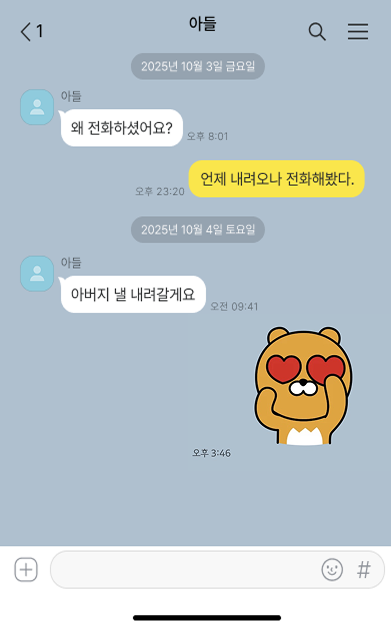
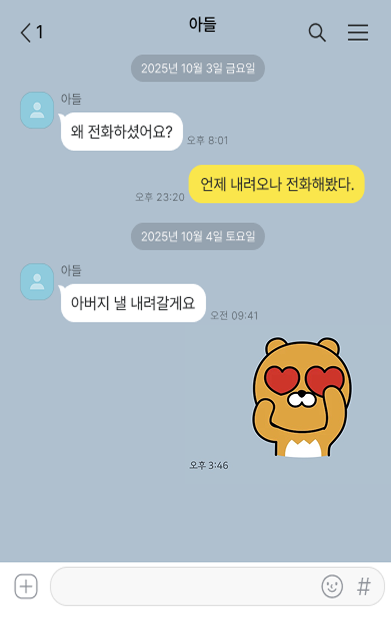
중연 12: 사진 묶어 보내기 구현 완료 + 카카오톡 다른 항목 수정 완료

diff --git a/src/pages/Kakao/KakaoUiLesson.jsx b/src/pages/Kakao/KakaoUiLesson.jsx
@@ -9,7 +9,7 @@ import ChatInputBar from '../../components/ChatInputBar/ChatInputBar';
 import VirtualKeyboard from '../../components/VirtualKeyboard/VirtualKeyboard';
 import screenshot1 from '../../assets/msend3.png';
 import screenshot4 from '../../assets/msend4.png';
-import kemot1 from '../../assets/kemot1.png';
+import kemot1 from '../../assets/kreser1.png';
 import kemot2 from '../../assets/kemot2.png';
 import kemot3 from '../../assets/kemot3.png';
 import kemot4 from '../../assets/kemot4.png';
@@ -112,7 +112,7 @@ export default function KakaoUiLesson(){
       <header className={frameStyles.frameHeader} ref={headerRef}>
         <h1 className={`${frameStyles.frameTitle} ${lt.withAccent}`}>
           <span className="titleText">이모티콘 보내기</span>
-          <span className={frameStyles.inlineTagline}>{current.instruction || '카카오톡의 기본 UI를 확인해 보세요.'}</span>
+          <span className={frameStyles.inlineTagline}>각종 이모티콘을 보내는 방법을 연습합니다.</span>
         </h1>
       </header>
       <div className={frameStyles.lessonRow}>
@@ -121,7 +121,7 @@ export default function KakaoUiLesson(){
             <PhoneFrame image={useSubmittedScreenshot ? screenshot4 : (step === 1 ? kemot1 : (step === 2 ? kemot2 : (step === 3 ? (showKemot4 ? kemot4 : kemot3) : screenshot1)))} screenWidth={'278px'} aspect={'278 / 450'} scale={1}>
               {showDev && <div className={frameStyles.devCoord}>{devPos.x}% , {devPos.y}% (d toggle)</div>}
               {!showKemot4 && (
-                <TapHint selector={'button[aria-label="메시지 보내기"]'} width={step === 1 ? '26px' : step === 2 ? '50px' : step === 3 ? '26px' : '18%'} height={step === 1 ? '27px' : step === 2 ? '50px' : step === 3 ? '26px' : '8%'} offsetX={step === 1 ? -120 : step === 2 ? 36 : step === 3 ? 123 : 0} offsetY={step === 1 ? -46 : step === 2 ? -15 : step === 3 ? 93 : 10} borderRadius={'10px'} onActivate={() => { if(step === 3){ setShowKemot4(true); return; } if(step === total) { submitAnswer(); } else { next(); } }} suppressInitial={false} ariaLabel={'전송 버튼 힌트'} />
+                <TapHint selector={'button[aria-label="메시지 보내기"]'} width={step === 1 ? '26px' : step === 2 ? '50px' : step === 3 ? '26px' : '18%'} height={step === 1 ? '27px' : step === 2 ? '50px' : step === 3 ? '26px' : '8%'} offsetX={step === 1 ? -120 : step === 2 ? 36 : step === 3 ? 123 : 0} offsetY={step === 1 ? -58 : step === 2 ? -15 : step === 3 ? 93 : 10} borderRadius={'10px'} onActivate={() => { if(step === 3){ setShowKemot4(true); return; } if(step === total) { submitAnswer(); } else { next(); } }} suppressInitial={false} ariaLabel={'전송 버튼 힌트'} />
               )}
               {current && current.inputPlaceholder && (
                 <ChatInputBar value={answer + composePreview()} disabled={!canSubmit} onChange={(val)=>{setAnswer(val); setFeedback('');}} onSubmit={onSubmitAnswer} offsetBottom={50} offsetX={0} className={frameStyles.inputRightCenter} placeholder={current.inputPlaceholder || '메시지를 입력하세요'} readOnly={keyboardVisible} onFocus={()=>setKeyboardVisible(true)} onBlur={()=>{}} />

diff --git a/src/pages/Kakao/KakaoMediaLessonSteps.js b/src/pages/Kakao/KakaoMediaLessonSteps.js
@@ -1,6 +1,46 @@
 const steps = [
-  { id: 1, title: '사진 전송', instruction: '사진을 선택하고 전송하는 방법을 확인하세요.', focusAreas:[{x:8,y:24,w:84,h:8}], speak: '사진을 보내는 방법을 살펴봅시다.' },
-  { id: 2, title: '파일 관리', instruction: '보낸 파일을 재전송/삭제하는 방법을 확인하세요.', focusAreas:[{x:10,y:36,w:80,h:8}], speak: '파일 재전송과 삭제 방법을 연습하세요.' },
-  { id: 3, title: '미디어 옵션', instruction: '전송 옵션과 미리보기 기능을 확인해보세요.', focusAreas:[{x:6,y:46,w:88,h:10,pill:true}], speak: '미리보기를 확인하고 전송해보세요.', completionSpeak: '잘하셨어요 아래 완료 버튼을 눌러 더 많은걸 배우러 가볼까요?' }
+  {
+    id: 1,
+    title: "수신된 메시지 확인하고, 더하기 버튼 누르기",
+    instruction: "수신된 문자함을 열어 왼쪽 하단의 더하기 버튼을 누릅니다.",
+    focusAreas: [{ x: 8, y: 24, w: 84, h: 8 }],
+    speak: "앨범을 확인하기 위해 왼쪽 하단의 더하기 버튼을 눌러보세요.",
+  },
+  {
+    id: 2,
+    title: "앨범 누르기",
+    instruction: "앨범을 눌러보세요.",
+    focusAreas: [{ x: 10, y: 36, w: 80, h: 8 }],
+    speak: "앨범을 찾고 눌러보세요.",
+  },
+  {
+    id: 3,
+    title: "사진 선택하기",
+    instruction: "전송할 사진을 선택해보세요.",
+    focusAreas: [{ x: 6, y: 46, w: 88, h: 10, pill: true }],
+    speak: "전송할 사진을 선택하기 위해 파란색 버튼을 눌러보세요.",
+  },
+  {
+    id: 4,
+    title: "사진 중복 선택하기",
+    instruction: "여러 장의 사진을 선택해 묶어 보내는 방법을 확인하세요.",
+    focusAreas: [{ x: 6, y: 30, w: 88, h: 40 }],
+    speak: "여러 장을 선택해 묶어 보내기 위해 파란색 버튼을 눌러보세요.",
+  },
+  {
+    id: 5,
+    title: "묶어 전송 옵션",
+    instruction: "전송 버튼을 눌러보세요.",
+    focusAreas: [{ x: 6, y: 30, w: 88, h: 40 }],
+    speak: "묶어 전송하기 위해 전송 버튼을 눌러보세요.",
+  },
+  {
+    id: 6,
+    title: "묶어 보내기 완료",
+    instruction: "사진 묶어 보내기에 성공하셨어요.",
+    focusAreas: [{ x: 6, y: 30, w: 88, h: 40 }],
+    speak:
+      "사진 묶어 보내기에 성공하셨어요. 아래 완료 버튼을 눌러 더 많은걸 배우러 가볼까요?",
+  },
 ];
 export default steps;

diff --git a/src/pages/common/GenericLesson.jsx b/src/pages/common/GenericLesson.jsx
@@ -172,7 +172,9 @@ export default function GenericLesson({ steps = [], backPath = '/', headerTitle 
               {
                 (() => {
                   // allow per-lesson overrides via tapHintConfig[step]
-                  const override = (tapHintConfig && tapHintConfig[step]) || {};
+                  // support either a single config object or an array of configs to render multiple hints
+                  const raw = (tapHintConfig && tapHintConfig[step]);
+                  const overrides = Array.isArray(raw) ? raw : [raw || {}];
                   const defaultProps = {
                     selector: 'button[aria-label="메시지 보내기"]',
                     width: step === 1 ? '279px' : step === 2 ? '180px' : step === 3 ? '60px' : '18%',
@@ -183,16 +185,16 @@ export default function GenericLesson({ steps = [], backPath = '/', headerTitle 
                     suppressInitial: step === total,
                     ariaLabel: '전송 버튼 힌트'
                   };
-                  const hintProps = { ...defaultProps, ...override };
-                  // if the hintProps request the hint to be hidden, don't render it
-                  if(hintProps.hidden) return null;
-                  // if override supplies explicit x/y, let it override selector behaviour
-                  // allow per-step override for the activation handler (e.g., open a calendar)
-                  return (
-                    <TapHint {...hintProps} onActivate={(override && override.onActivate) ? override.onActivate : handleTapHintActivate}>
-                      {(override && override.inner) ? override.inner : null}
-                    </TapHint>
-                  );
+                  return overrides.map((override, idx) => {
+                    const hintProps = { ...defaultProps, ...override };
+                    if(hintProps.hidden) return null;
+                    const onAct = (override && override.onActivate) ? override.onActivate : handleTapHintActivate;
+                    return (
+                      <TapHint key={idx} {...hintProps} onActivate={onAct}>
+                        {(override && override.inner) ? override.inner : null}
+                      </TapHint>
+                    );
+                  });
                 })()
               }
               {/* Live text overlay (per-step) - rendered inside PhoneFrame.overlay so coordinates are percent-based relative to the screenshot */}

diff --git a/src/pages/Kakao/KakaoMediaLesson.jsx b/src/pages/Kakao/KakaoMediaLesson.jsx
@@ -3,13 +3,20 @@ import GenericLesson from '../common/GenericLesson';
 import steps from './KakaoMediaLessonSteps.js';
 import kreser1 from '../../assets/kreser1.png';
 import kreser2 from '../../assets/kreser2.png';
+import kpic3 from '../../assets/kpic3.png';
+import kpic4 from '../../assets/kpic4.png';
+import kpic1 from '../../assets/kpic1.png';
+import kpic2 from '../../assets/kpic2.png';
 
 export default function KakaoMediaLesson() {
-  const images = { screens: { 1: kreser1, 2: kreser2 } };
+  
+  const images = { screens: { 1: kreser1, 2: kreser2, 3: kpic1, 4: kpic3, 5: kpic2, 6: kpic4 } };
   const tapHintConfig = {
-    1: { selector: null, x: '6.65%', y: '137.3%', width: '25px', height: '25px', borderRadius: '10px', ariaLabel: '사진 전송 힌트', suppressInitial: false },
+    1: { selector: null, x: '6.65%', y: '140%', width: '25px', height: '25px', borderRadius: '10px', ariaLabel: '사진 전송 힌트', suppressInitial: false },
     2: { selector: null, x: '0%', y: '54%', width: '35px', height: '35px', borderRadius: '8px', ariaLabel: '파일 관리 힌트', suppressInitial: false },
-    3: { selector: null, x: '50%', y: '60%', width: '100px', height: '40px', borderRadius: '10px', ariaLabel: '미디어 옵션 힌트', suppressInitial: false }
+    3: { selector: null, x: '62%', y: '60%', width: '20px', height: '20px', borderRadius: '10px', ariaLabel: '미디어 옵션 힌트', suppressInitial: false },
+    4: { selector: null, x: '95.5%', y: '60%', width: '20px', height: '20px', borderRadius: '10px', ariaLabel: '묶어 선택 힌트', suppressInitial: false },
+    5: { selector: null, x: '90%', y: '51.5%', width: '40px', height: '25px', borderRadius: '8px', ariaLabel: '묶어 전송 옵션 힌트', suppressInitial: false }
   };
   return <GenericLesson steps={steps} images={images} tapHintConfig={tapHintConfig} backPath="/kakao/learn" headerTitle="사진/파일 보내기" headerTagline="사진과 파일 전송, 삭제 흐름을 익혀요." donePath="/kakao/learn" showSubmittedBubble={false} />;
 }

diff --git a/src/pages/Kakao/KakaoSettingLesson.jsx b/src/pages/Kakao/KakaoSettingLesson.jsx
@@ -149,7 +149,7 @@ export default function KakaoSettingLesson() {
       steps={steps}
       backPath="/kakao/learn"
       headerTitle="예약 메시지 보내기"
-      headerTagline="원하는 시간과 날짜를 지정하여 메시지를 작성하고, 자동으로 발송되는 기능까지 완벽하게 예약하고 취소하는 과정을 연습합니다."
+      headerTagline="원하는 시간과 날짜를 지정하여 메시지를 작성하고, 자동으로 발송되는 기능까지 완벽하게 예약하는 과정을 연습합니다."
       donePath="/kakao/learn"
       images={{ screenshot1: kreser3, screenshot2: kreser1, screenshot3: kreser2, screens: { 1: kreser1, 2: kreser2, 3: kreser3, 4: kreser3, 5: kreser5 } }}
       showSubmittedBubble={false}
@@ -169,7 +169,7 @@ export default function KakaoSettingLesson() {
       }}
 
       tapHintConfig={{
-        1: { selector: null, x: '7%', y: '86%', width: '26px', height: '24px', borderRadius: '10px', suppressInitial: true, ariaLabel: '더하기 버튼 힌트', offsetY: -20 },
+        1: { selector: null, x: '7%', y: '88%', width: '26px', height: '24px', borderRadius: '10px', suppressInitial: true, ariaLabel: '더하기 버튼 힌트', offsetY: -20 },
         2: { selector: null, x: '49%', y: '80%', width: '35px', height: '35px', borderRadius: '10px', suppressInitial: true, ariaLabel: '예약 메시지 버튼 힌트', offsetY: -20.5 },
         3: { selector: null, x: '30%', y: '19%', width: '155px', height: '35px', borderRadius: '10px', suppressInitial: true, ariaLabel: '예약 메시지 버튼 힌트', offsetY: -20.5 },
         // send hint is now on step 4 (was step 3)

diff --git a/src/pages/Kakao/KakaoFriendLessonSteps.js b/src/pages/Kakao/KakaoFriendLessonSteps.js
@@ -27,31 +27,22 @@ const steps = [
     focusAreas: [{ x: 6, y: 46, w: 88, h: 10, pill: true }],
     inputPlaceholder: "메시지를 입력하세요",
     allowEnglish: true,
-    speak: "친구에게 인사말을 보내보세요.",
+    speak: "친구의 카카오톡 ID를 입력해보세요.",
   },
   {
     id: 5,
-    title: "친구 추가 완료",
+    title: "친구 추가하기",
     instruction: "친구 추가 탭을 눌러보세요.",
     focusAreas: [{ x: 6, y: 46, w: 88, h: 10, pill: true }],
     speak: "친구 추가 탭을 눌러 친구 추가를 완료해보세요.",
   },
   {
     id: 6,
-    title: "추가 정보 확인",
-    instruction: "추가로 표시되는 정보를 확인해보세요.",
-    focusAreas: [{ x: 6, y: 46, w: 88, h: 10, pill: true }],
-    inputPlaceholder: "메시지를 입력하세요",
-    speak: "화면에 표시된 추가 정보를 확인해보세요.",
-  },
-  {
-    id: 7,
     title: "완료 및 확인",
-    instruction: "작업이 완료되었는지 최종 확인해보세요.",
+    instruction: "친구 추가가 성공적으로 완료되었어요.",
     focusAreas: [{ x: 6, y: 46, w: 88, h: 10, pill: true }],
-    speak: "모든 작업을 확인하셨다면 완료해보세요.",
-    completionSpeak:
-      "잘하셨어요 아래 완료 버튼을 눌러 더 많은걸 배우러 가볼까요?",
+    speak:
+      "친구 추가가 성공적으로 완료되었어요. 아래 완료 버튼을 눌러 더 많은걸 배우러 가볼까요?",
   },
 ];
 export default steps;

diff --git a/src/pages/Kakao/KakaoFriendLesson.jsx b/src/pages/Kakao/KakaoFriendLesson.jsx
@@ -6,9 +6,10 @@ import kaddid1 from '../../assets/kaddid1.png';
 import kaddid2 from '../../assets/kaddid2.png';
 import kaddid3 from '../../assets/kaddid3.png';
 import kaddid4 from '../../assets/kaddid4.png';
+import kaddid5 from '../../assets/kaddid5.png';
 
 export default function KakaoFriendLesson(){
-  const images = { screens: { 1: kaddid, 2: kaddid1, 3: kaddid2, 4: kaddid3, 5: kaddid4 } };
+  const images = { screens: { 1: kaddid, 2: kaddid1, 3: kaddid2, 4: kaddid3, 5: kaddid4, 6: kaddid5 } };
     // make the TapHint on step 1 a bit smaller and keep the vertical nudge
     // also ensure the TapHint is visible on step 3 (explicit override)
     const tapHintConfig = {
@@ -38,5 +39,5 @@ export default function KakaoFriendLesson(){
       }
     };
 
-    return <GenericLesson steps={steps} images={images} tapHintConfig={tapHintConfig} textOverlayConfig={textOverlayConfig} backPath="/kakao/learn" headerTitle="친구 추가/관리" headerTagline="친구를 추가하고 관리하는 방법을 배워요." donePath="/kakao/learn" showSubmittedBubble={false} />;
+  return <GenericLesson steps={steps} images={images} tapHintConfig={tapHintConfig} textOverlayConfig={textOverlayConfig} backPath="/kakao/learn" headerTitle="친구 추가하기 (아이디)" headerTagline="친구를 아이디로 추가하는 방법을 연습합니다." donePath="/kakao/learn" showSubmittedBubble={false} />;
 }

diff --git a/src/pages/Kakao/KakaoFriendNumLessonSteps.js b/src/pages/Kakao/KakaoFriendNumLessonSteps.js
@@ -8,10 +8,10 @@ const steps = [
   },
   {
     id: 2,
-    title: "전화번호로 친구 찾기",
-    instruction: "전화번호 탭을 눌러 전화번호로 찾기를 선택하세요.",
+    title: "연락처 버튼 누르기",
+    instruction: "연락처 버튼을 눌러보세요.",
     focusAreas: [{ x: 10, y: 36, w: 80, h: 8 }],
-    speak: "전화번호로 친구를 찾는 탭을 눌러보세요.",
+    speak: "전화번호로 친구를 추가하기 위해 연락처 버튼을 눌러보세요.",
   },
   {
     id: 3,
@@ -47,10 +47,10 @@ const steps = [
   {
     id: 7,
     title: "완료 및 확인",
-    instruction: "작업이 완료되었는지 최종 확인해보세요.",
+    instruction: "친구 추가가 성공적으로 완료되었어요.",
     focusAreas: [{ x: 6, y: 46, w: 88, h: 10, pill: true }],
-    speak: "모든 작업을 확인하셨다면 완료해보세요.",
-    completionSpeak: "잘하셨어요 아래 완료 버튼을 눌러 다음으로 가보세요.",
+    speak:
+      "친구 추가가 성공적으로 완료되었어요. 아래 완료 버튼을 눌러 더 많은걸 배우러 가볼까요?",
   },
 ];
 export default steps;

diff --git a/src/pages/Kakao/KakaoFriendNumLesson.jsx b/src/pages/Kakao/KakaoFriendNumLesson.jsx
@@ -66,8 +66,8 @@ export default function KakaoFriendNumLesson(){
       tapHintConfig={tapHintConfig}
       textOverlayConfig={textOverlayConfig}
       backPath="/kakao/learn"
-      headerTitle="친구 추가/관리"
-      headerTagline="친구를 추가하고 관리하는 방법을 배워요."
+      headerTitle="친구 추가하기 (전화번호)"
+      headerTagline="친구를 전화번호로 추가하는 방법을 연습합니다."
       donePath="/kakao/learn"
       showSubmittedBubble={false}
     />

diff --git a/src/pages/Kakao/KakaoTopics.js b/src/pages/Kakao/KakaoTopics.js
@@ -22,8 +22,8 @@ export const kakaoTopics = [
   },
   {
     key: "media",
-    title: "사진 묶어 보내기 + 묶어 다운받기",
-    text: "여러 장을 한 번에 공유하고 묶어서 보내고, 저장해 보아요",
+    title: "사진 묶어 보내기",
+    text: "여러 장을 한 번에 묶어서 보내 보아요",
   },
   {
     key: "inviteRoom",
